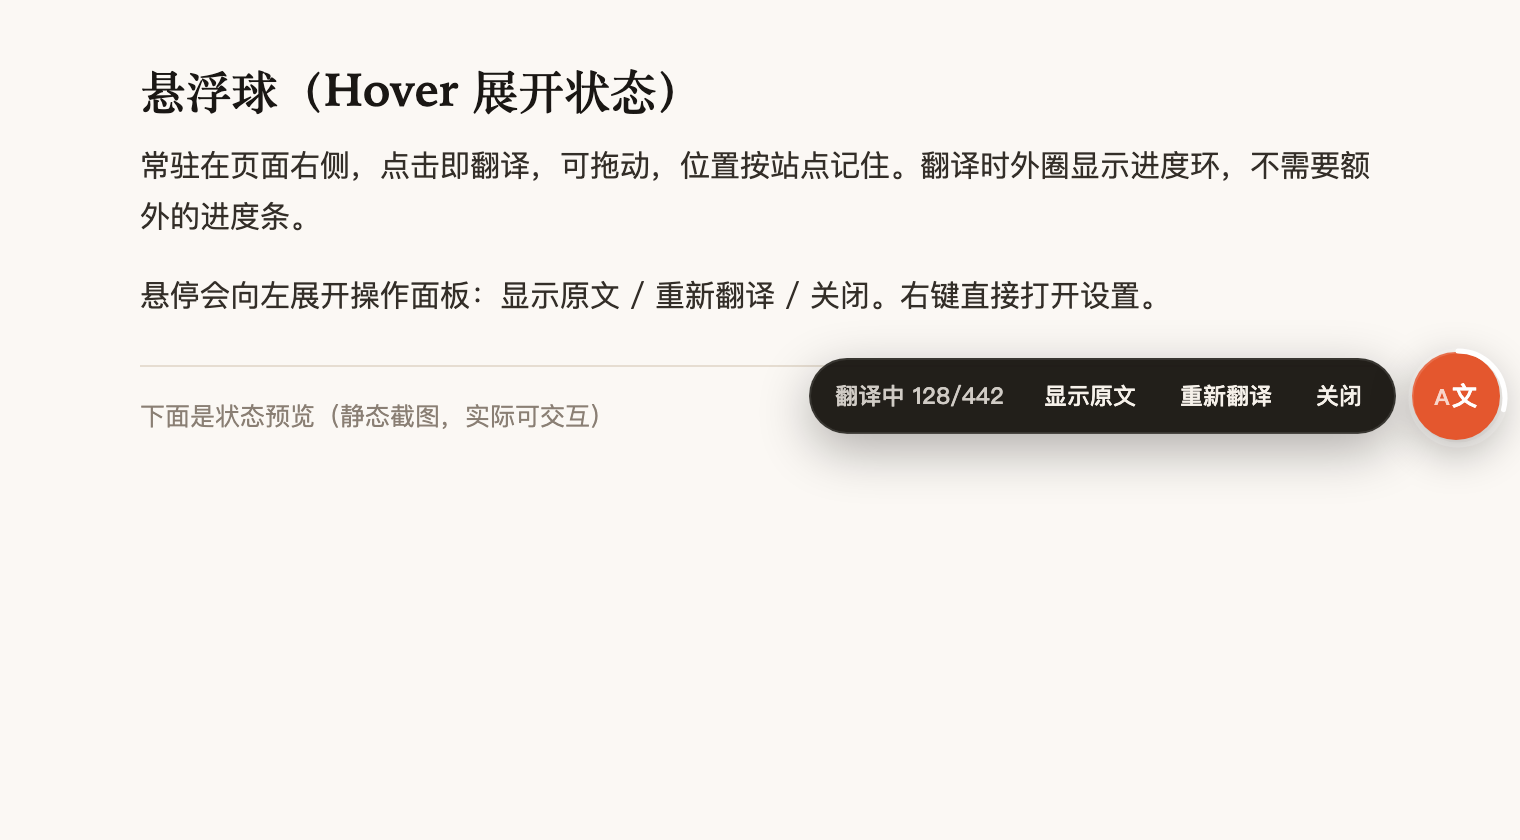
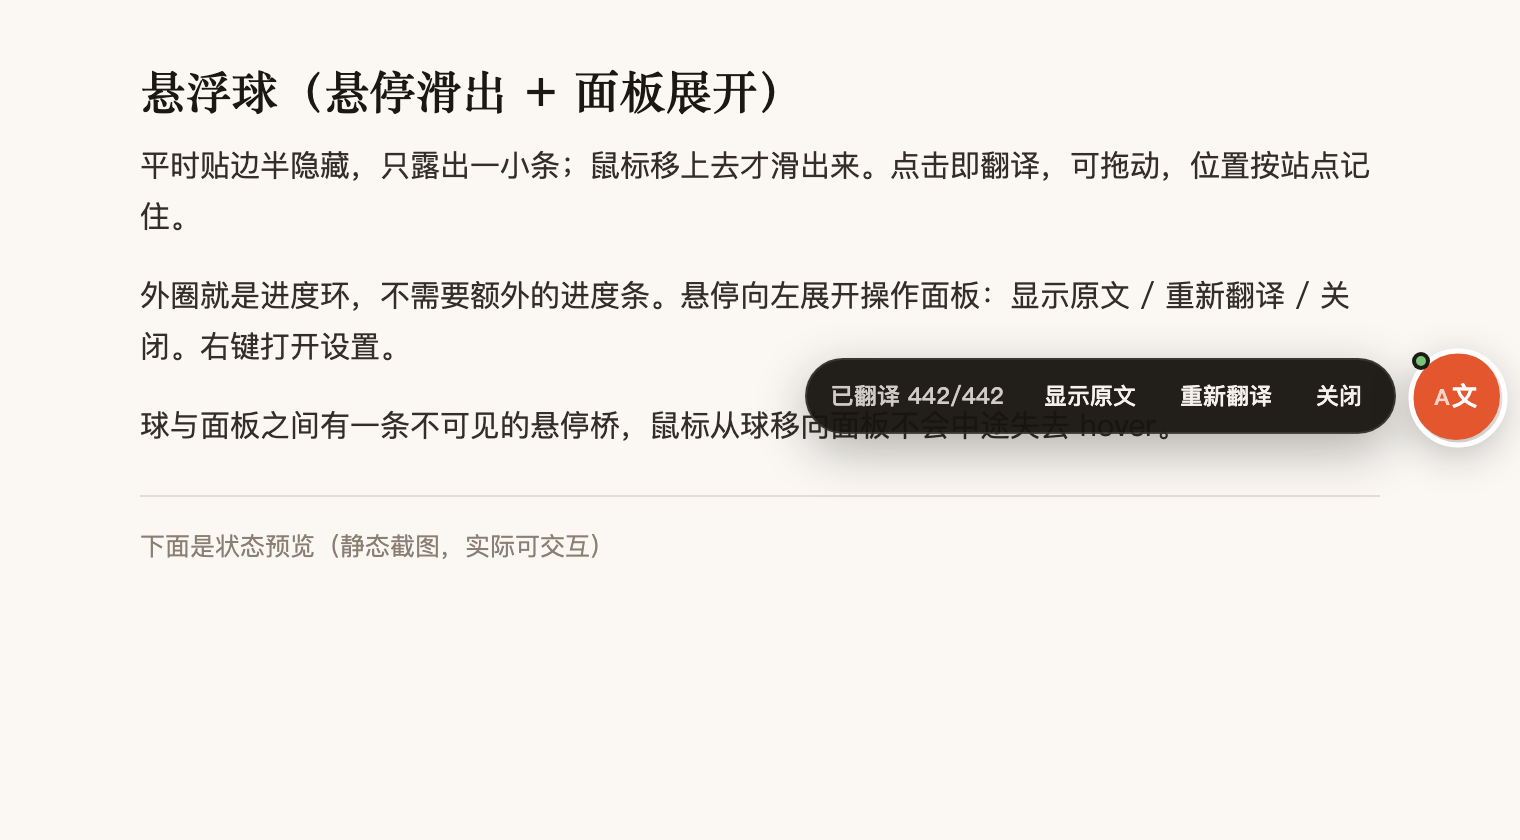
fix(ui): 悬浮球绿点跟随停靠方向；弹窗不做内嵌卡片
两处：

1) 悬浮球完成后的小绿点固定在最右上角。球停在右边缘时会向右平移 32px、只露出左边
   12px，绿点正好被推出屏幕，看不见了。改为始终锚定在「朝向页面」的那一侧
   （dock-right -> 左，dock-left -> 右），贴边和展开两种状态下都可见。

2) 弹窗尝试做成内嵌卡片（圆角 + 描边 + 外框留边）是错的：Chrome 绘制弹窗窗口本身
   就是直角，没有任何办法把窗口圆角化，于是变成「方框里套圆角卡」。撤掉内嵌卡片，
   弹窗恢复贴边铺满；只让内部元素带圆角，并统一到主题 token
   （状态卡改用 --r-lg，与设置页的 .card 一致；标签页内层用外层半径减内边距）。
   这些约束已写进 CSS 注释，避免以后再试。

测试：test-core 77 + test-dom 51 + e2e 66，全绿

diff --git a/src/popup/popup.css b/src/popup/popup.css
@@ -3,6 +3,12 @@ body {
   background: var(--paper);
 }
 
+/*
+ * No inset card here. Chrome draws the popup window itself with square corners
+ * and there is no way to round it, so a rounded card floating inside a square
+ * frame reads as a mistake. The popup is edge-to-edge; only the inner elements
+ * carry radius, all of them from the shared theme tokens.
+ */
 .pop {
   padding: 14px 16px 12px;
 }
@@ -38,6 +44,7 @@ body {
   color: var(--ink-2);
   background: transparent;
   border: 0;
+  /* Nested radius: outer --r-md minus the 3px container padding. */
   border-radius: 7px;
   padding: 6px 10px;
   cursor: pointer;
@@ -160,6 +167,7 @@ select {
 }
 
 /* --- state card: mirrors the floating ball exactly ----------------------- */
+/* Radius matches the settings page's .card so the two surfaces feel related. */
 .stateCard {
   display: flex;
   align-items: center;
@@ -167,7 +175,7 @@ select {
   gap: 12px;
   padding: 12px 13px;
   border: 1px solid var(--line);
-  border-radius: var(--r-md);
+  border-radius: var(--r-lg);
   background: var(--surface);
   transition: border-color var(--dur) var(--ease), background var(--dur) var(--ease);
 }

diff --git a/src/content/page/ball.js b/src/content/page/ball.js
@@ -135,6 +135,10 @@
 }
 .wrap.done .dot{ display:block; background:#7ac47a; }
 .wrap.err .dot{ display:block; background:#e0705f; }
+/* Parked on the right edge, the ball only shows its LEFT sliver — a dot in the
+   top-right corner would sit off-screen. Keep it on whichever side faces the
+   page, so it is visible in both the docked and the expanded state. */
+.wrap.dock-right .dot{ right:auto; left:-1px; }
 `;
 
   // ---------------------------------------------------------------------------
